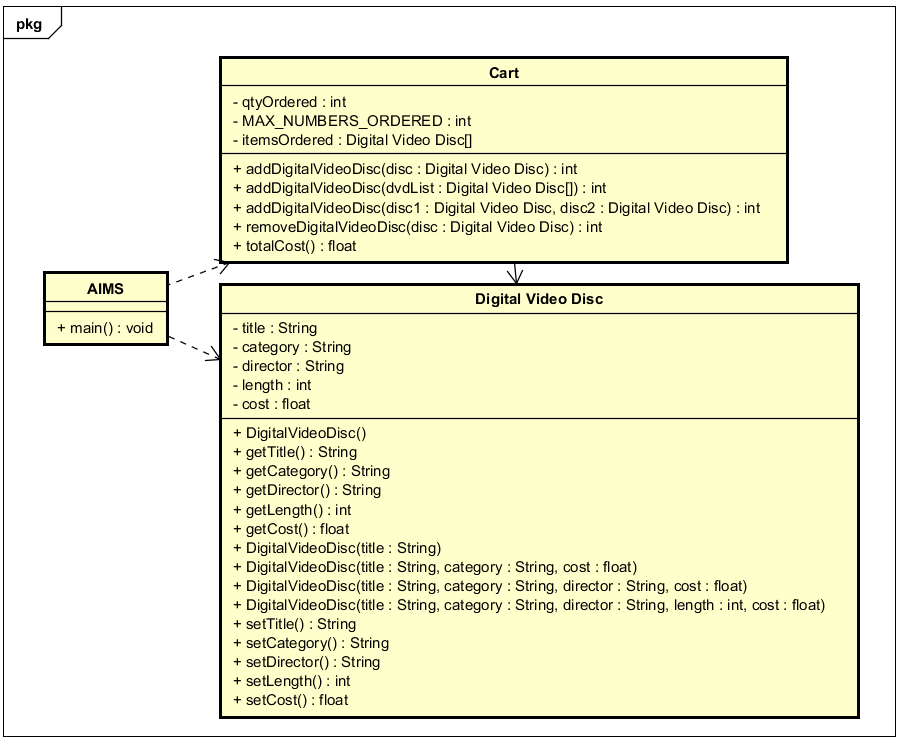
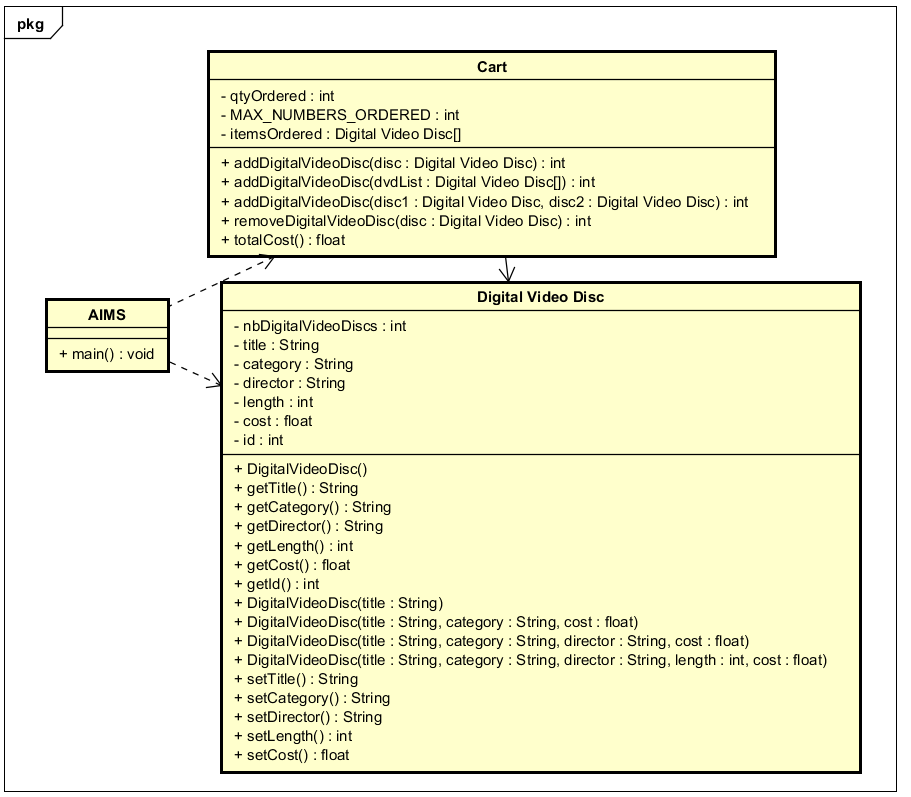
update id, class diagram

Changed region(s): [[0.0, 0.0, 0.9945, 1.0], [0.0, 0.0, 0.0932, 0.0622]]

diff --git a/DigitalVideoDisc.java b/DigitalVideoDisc.java
@@ -1,10 +1,14 @@
 
 public class DigitalVideoDisc {
+	private static int nbDigitalVideoDiscs = 0;
+	
 	private String title;
 	private String category;
 	private String director;
 	private int length;
 	private float cost;
+	private int id;
+		
 	public String getTitle() {
 		return title;
 	}
@@ -20,15 +24,22 @@ public class DigitalVideoDisc {
 	public float getCost() {
 		return cost;
 	}
+	public int getId() {
+		return id;
+	}
+	
+	
 	public DigitalVideoDisc(String title) {
 		super();
 		this.title = title;
+		this.id = nbDigitalVideoDiscs++;
 	}
 	public DigitalVideoDisc(String title, String category, float cost) {
 		super();
 		this.title = title;
 		this.category = category;
 		this.cost = cost;
+		this.id = nbDigitalVideoDiscs++;
 	}
 	public DigitalVideoDisc(String title, String category, String director, float cost) {
 		super();
@@ -36,6 +47,7 @@ public class DigitalVideoDisc {
 		this.category = category;
 		this.director = director;
 		this.cost = cost;
+		this.id = nbDigitalVideoDiscs++;
 	}
 	public DigitalVideoDisc(String title, String category, String director, int length, float cost) {
 		super();
@@ -44,7 +56,10 @@ public class DigitalVideoDisc {
 		this.director = director;
 		this.length = length;
 		this.cost = cost;
+		this.id = nbDigitalVideoDiscs++;
 	}
+	
+	
 	public void setTitle(String title) {
 		this.title = title;
 	}
